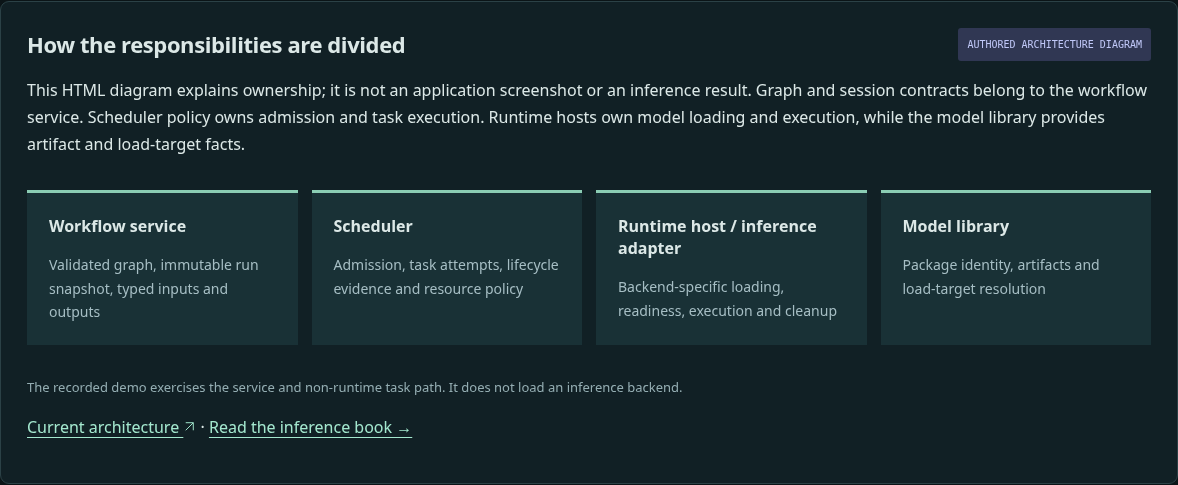
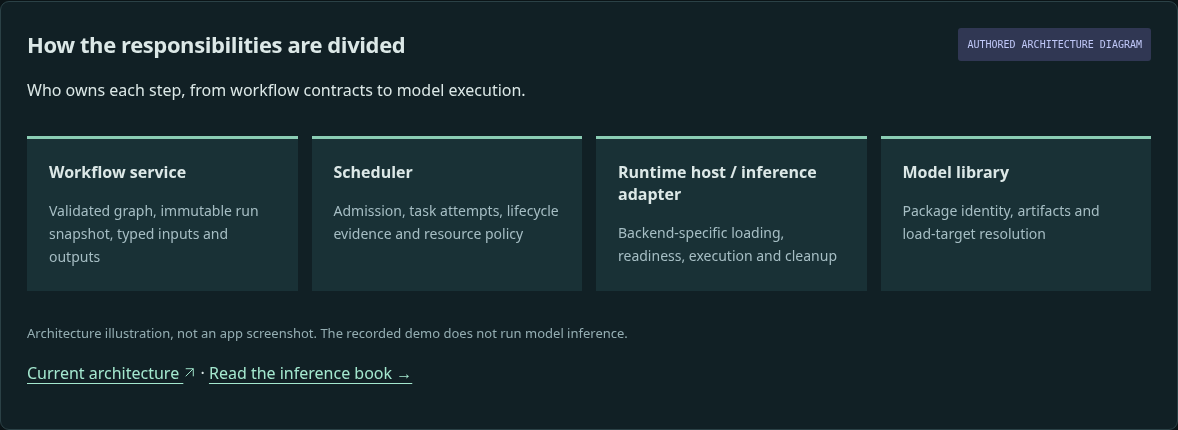
Keep perspective labels concise and constrain the mobile recording selector

diff --git a/docs/presentation/index.html b/docs/presentation/index.html
@@ -5,11 +5,11 @@
 <header><a class="brand" href="./">⌁ Pantograph</a><nav aria-label="Main"><a href="#gallery">App gallery</a><a href="#demonstration">Demonstration</a><a href="#research">Research</a><a href="https://github.com/MrScripty/Pantograph">Source <svg aria-hidden="true" width="13" height="13" viewBox="0 0 24 24" fill="none" stroke="currentColor" stroke-width="1.8"><path d="M5 19 19 5M5 5h14v14"/></svg></a></nav></header>
 <main>
 <section class="hero"><p class="eyebrow">LOCAL-FIRST · RUST-NATIVE · INSPECTABLE</p><h1>Make the workflow visible.<br><span>Make execution accountable.</span></h1><p class="lead">Pantograph connects a visual node editor with scheduler-owned execution and explicit inference boundaries. Explore one working deterministic workflow, then the research behind the larger system.</p><div class="actions"><a class="button" href="#demonstration">Explore the evidence ↓</a><a href="https://github.com/MrScripty/Pantograph/tree/7fc3584cca8bef647b60ebf303c4b5d6b37d98bd/examples/scheduler-demo">Run it locally <svg aria-hidden="true" width="13" height="13" viewBox="0 0 24 24" fill="none" stroke="currentColor" stroke-width="1.8"><path d="M5 19 19 5M5 5h14v14"/></svg></a></div><p class="scope">Captured 11 October 2026 · CPU-only JSON extraction · No model inference claimed</p></section>
-<section id="gallery"><div class="section-title"><span class="eyebrow">APPLICATION GALLERY</span><h2>Inspect the actual workbench.</h2><p>Genuine Chromium captures of existing Svelte components connected to a persistent Rust service over loopback HTTP. These are not native desktop windows. The workbench queries live diagnostics and reads actual retained artifact bytes; this static page preserves the recordings. <a href="images/scheduler-demo-success.json">Inspect the source recording</a>. <a href="https://github.com/MrScripty/Pantograph/pull/71">Review branch: PR #71</a>; main awaits review.</p></div><article><h3>Workflow-run I/O Inspector</h3><a href="images/workflow-run-inspector.png?v=843ad770e4fc"><img loading="lazy" class="screenshot" src="images/workflow-run-inspector.png?v=843ad770e4fc" alt="Workflow-run I/O Inspector: Real inspection component with a live run graph, node status and retained text read through the artifact API."></a><p class="caption">Real inspection component with a live run graph, node status and retained text read through the artifact API.</p></article><article><h3>Graph · earlier capture</h3><a href="images/node-editor.png?v=486639eb27b8"><img loading="lazy" class="screenshot" src="images/node-editor.png?v=486639eb27b8" alt="Workflow Graph: Actual Svelte Graph canvas connected to the loopback host, with backend-produced graph and definitions. Captured before saved-workflow submission was added."></a><p class="caption">Actual Svelte Graph canvas connected to the loopback host, with backend-produced graph and definitions. Captured before saved-workflow submission was added.</p></article><article><h3>Execution ledger / Diagnostics</h3><a href="images/execution-ledger.png?v=48d6a28565d3"><img loading="lazy" class="screenshot" src="images/execution-ledger.png?v=48d6a28565d3" alt="Execution ledger / Diagnostics: Real Diagnostics component querying the live native service, including completed non-runtime node statuses."></a><p class="caption">Real Diagnostics component querying the live native service, including completed non-runtime node statuses.</p></article><article><h3>Ledger timeline</h3><a href="images/execution-ledger-timeline.png?v=903f54c7e757"><img loading="lazy" class="screenshot" src="images/execution-ledger-timeline.png?v=903f54c7e757" alt="Actual Diagnostics scheduler timeline populated from the recorded native run"></a><p class="caption">The actual native task lifecycle timeline, scrolled into view. <a href="images/execution-node-status.png?v=b572844b37fe">Inspect completed node statuses and the three retained payloads</a>.</p></article><article><h3>Model Library</h3><a href="images/model-library.png?v=22cca29198cd"><img loading="lazy" class="screenshot" src="images/model-library.png?v=22cca29198cd" alt="Model Library: Actual Library component reading a real isolated empty Pumas catalog. Unsupported model-management actions are explained and disabled; no invented models or inference results."></a><p class="caption">Actual Library component reading a real isolated empty Pumas catalog. Unsupported model-management actions are explained and disabled; no invented models or inference results.</p></article><details class="view-coverage"><summary>Eight app views · capture coverage</summary><div class="coverage-grid"><a href="images/node-editor.png?v=486639eb27b8"><b>Graph</b><span>Earlier capture; submission added later</span></a><div><b>Scheduler</b><span>Functional read view; capture pending</span></div><a href="images/execution-ledger.png?v=48d6a28565d3"><b>Diagnostics</b><span>Live-service query capture</span></a><a href="images/workflow-run-inspector.png?v=843ad770e4fc"><b>I/O Inspector</b><span>Retained output capture</span></a><a href="images/model-library.png?v=22cca29198cd"><b>Library</b><span>Empty isolated catalog; limited actions</span></a><div><b>Network</b><span>Real host adapter added; capture pending</span></div><div><b>Settings</b><span>Service support not yet qualified</span></div><a href="images/node-editor-status.png?v=5fd14ba778da"><b>Node Editor / Node Lab</b><span>Authoring unavailable; distinct from Graph</span></a></div></details></section><section id="demonstration"><div class="section-title"><span class="eyebrow">01 / THE DEMONSTRATION</span><h2>One graph. Three perspectives.</h2><p class="caption">A captured Graph canvas, an interactive viewer of a saved run, and an authored architecture diagram.</p></div>
+<section id="gallery"><div class="section-title"><span class="eyebrow">APPLICATION GALLERY</span><h2>Inspect the actual workbench.</h2><p>Browser captures of real Svelte components querying a local Rust service and reading retained output. <a href="images/scheduler-demo-success.json">Inspect the source recording</a>. <a href="https://github.com/MrScripty/Pantograph/pull/71">Review branch: PR #71</a>; main awaits review.</p></div><article><h3>Workflow-run I/O Inspector</h3><a href="images/workflow-run-inspector.png?v=843ad770e4fc"><img loading="lazy" class="screenshot" src="images/workflow-run-inspector.png?v=843ad770e4fc" alt="Workflow-run I/O Inspector: Real inspection component with a live run graph, node status and retained text read through the artifact API."></a><p class="caption">Real inspection component with a live run graph, node status and retained text read through the artifact API.</p></article><article><h3>Graph · earlier capture</h3><a href="images/node-editor.png?v=486639eb27b8"><img loading="lazy" class="screenshot" src="images/node-editor.png?v=486639eb27b8" alt="Workflow Graph: Actual Svelte Graph canvas connected to the loopback host, with backend-produced graph and definitions. Captured before saved-workflow submission was added."></a><p class="caption">Actual Svelte Graph canvas connected to the loopback host, with backend-produced graph and definitions. Captured before saved-workflow submission was added.</p></article><article><h3>Execution ledger / Diagnostics</h3><a href="images/execution-ledger.png?v=48d6a28565d3"><img loading="lazy" class="screenshot" src="images/execution-ledger.png?v=48d6a28565d3" alt="Execution ledger / Diagnostics: Real Diagnostics component querying the live native service, including completed non-runtime node statuses."></a><p class="caption">Real Diagnostics component querying the live native service, including completed non-runtime node statuses.</p></article><article><h3>Ledger timeline</h3><a href="images/execution-ledger-timeline.png?v=903f54c7e757"><img loading="lazy" class="screenshot" src="images/execution-ledger-timeline.png?v=903f54c7e757" alt="Actual Diagnostics scheduler timeline populated from the recorded native run"></a><p class="caption">The actual native task lifecycle timeline, scrolled into view. <a href="images/execution-node-status.png?v=b572844b37fe">Inspect completed node statuses and the three retained payloads</a>.</p></article><article><h3>Model Library</h3><a href="images/model-library.png?v=22cca29198cd"><img loading="lazy" class="screenshot" src="images/model-library.png?v=22cca29198cd" alt="Model Library: Actual Library component reading a real isolated empty Pumas catalog. Unsupported model-management actions are explained and disabled; no invented models or inference results."></a><p class="caption">Actual Library component reading a real isolated empty Pumas catalog. Unsupported model-management actions are explained and disabled; no invented models or inference results.</p></article><details class="view-coverage"><summary>Eight app views · capture coverage</summary><div class="coverage-grid"><a href="images/node-editor.png?v=486639eb27b8"><b>Graph</b><span>Earlier capture; submission added later</span></a><div><b>Scheduler</b><span>Functional read view; capture pending</span></div><a href="images/execution-ledger.png?v=48d6a28565d3"><b>Diagnostics</b><span>Live-service query capture</span></a><a href="images/workflow-run-inspector.png?v=843ad770e4fc"><b>I/O Inspector</b><span>Retained output capture</span></a><a href="images/model-library.png?v=22cca29198cd"><b>Library</b><span>Empty isolated catalog; limited actions</span></a><div><b>Network</b><span>Real host adapter added; capture pending</span></div><div><b>Settings</b><span>Service support not yet qualified</span></div><a href="images/node-editor-status.png?v=5fd14ba778da"><b>Node Editor / Node Lab</b><span>Authoring unavailable; distinct from Graph</span></a></div></details></section><section id="demonstration"><div class="section-title"><span class="eyebrow">01 / THE DEMONSTRATION</span><h2>One graph. Three perspectives.</h2><p class="caption">A captured Graph canvas, an interactive viewer of a saved run, and an authored architecture diagram.</p></div>
 <div class="tabs" role="tablist" aria-label="Demo perspective"><button role="tab" aria-selected="true" aria-controls="editor" id="tab-editor" data-panel="editor">Graph screenshot</button><button role="tab" aria-selected="false" aria-controls="scheduler" id="tab-scheduler" data-panel="scheduler" tabindex="-1">Recorded run</button><button role="tab" aria-selected="false" aria-controls="inference" id="tab-inference" data-panel="inference" tabindex="-1">Architecture diagram</button></div>
-<article id="editor" role="tabpanel" aria-labelledby="tab-editor"><div class="panel-heading"><h3>The real Svelte Graph canvas</h3><span class="badge">STATIC APP SCREENSHOT</span></div><p>Selection Input → JSON Filter → Text Output. Backend-produced node definitions and the demo graph are loaded into the application's existing stores. Ports and edges are rendered by the actual editor.</p><a href="images/node-editor.png?v=486639eb27b8"><img class="screenshot" src="images/node-editor.png?v=486639eb27b8" alt="Pantograph's actual Svelte graph editor displaying the three-node JSON-extraction graph. Submit is unavailable and no execution result is shown."></a><p class="caption">Genuine browser capture, with focused fixes for JSON Filter's renderer registration and aligned-wire visibility. The application is connected to the loopback demo host. This earlier capture predates <a href="https://github.com/MrScripty/Pantograph/commit/679622e9d8b17e87a278b81b60194d31ee4f4981">saved-workflow submission and Network metrics</a>. The newer source still awaits reviewed screenshots. The separate Node Editor / Node Lab authoring feature remains unavailable in current source.</p></article>
-<article id="scheduler" role="tabpanel" aria-labelledby="tab-scheduler" hidden><div class="panel-heading"><h3>A recorded run, open to inspection</h3><span class="badge">SCREENSHOT + INTERACTIVE RECORDING</span></div><p>The Rust workflow service validates and snapshots the graph, admits a session run, materializes the JSON input, executes JSON Filter and Text Output, records diagnostics in SQLite, and retains the small scalar output artifacts. No host-returned fixture output is used.</p><a href="images/scheduler-demo-success.png?v=f86c2e38067b"><img class="screenshot" src="images/scheduler-demo-success.png?v=f86c2e38067b" alt="The local browser demo after native Rust execution, showing input JSON, extracted text, a run ID, and scheduler events."></a><div class="trace-controls"><label for="recording">Choose a saved recording</label><select id="recording"><option value="success">Successful extraction</option><option value="rejection">Expected rejection: missing JSON path</option></select><a id="download" href="images/scheduler-demo-success.json" download>Download raw JSON ↓</a></div><p id="trace-summary" role="status">Loading recorded evidence…</p><div class="trace-grid"><div id="event-list" aria-label="Recorded scheduler events"></div><pre id="event-detail" tabindex="0">Select an event to inspect its original payload.</pre></div><p class="caption">The screenshot above is the runnable demo host. The controls here inspect its saved execution JSON; this page does not run Rust or inference. Local elapsed time is not a benchmark. The expected-rejection recording deliberately omits the input path, producing a real invalid downstream task. No GPU scheduling, cache reuse, or model performance was tested here.</p></article>
-<article id="inference" role="tabpanel" aria-labelledby="tab-inference" hidden><div class="panel-heading"><h3>How the responsibilities are divided</h3><span class="badge research">AUTHORED ARCHITECTURE DIAGRAM</span></div><p>This HTML diagram explains ownership; it is not an application screenshot or an inference result. Graph and session contracts belong to the workflow service. Scheduler policy owns admission and task execution. Runtime hosts own model loading and execution, while the model library provides artifact and load-target facts.</p><ol class="boundaries"><li><b>Workflow service</b><span>Validated graph, immutable run snapshot, typed inputs and outputs</span></li><li><b>Scheduler</b><span>Admission, task attempts, lifecycle evidence and resource policy</span></li><li><b>Runtime host / inference adapter</b><span>Backend-specific loading, readiness, execution and cleanup</span></li><li><b>Model library</b><span>Package identity, artifacts and load-target resolution</span></li></ol><p class="caption">The recorded demo exercises the service and non-runtime task path. It does not load an inference backend.</p><p><a href="https://github.com/MrScripty/Pantograph/blob/main/ARCHITECTURE.md">Current architecture <svg aria-hidden="true" width="13" height="13" viewBox="0 0 24 24" fill="none" stroke="currentColor" stroke-width="1.8"><path d="M5 19 19 5M5 5h14v14"/></svg></a> · <a href="research/inference-backends/manuscript/designing-compatible-inference-backends.html">Read the inference book →</a></p></article>
+<article id="editor" role="tabpanel" aria-labelledby="tab-editor"><div class="panel-heading"><h3>The real Svelte Graph canvas</h3><span class="badge">STATIC APP SCREENSHOT</span></div><p>Selection Input → JSON Filter → Text Output, rendered by the real Svelte Graph canvas.</p><a href="images/node-editor.png?v=486639eb27b8"><img class="screenshot" src="images/node-editor.png?v=486639eb27b8" alt="Pantograph's actual Svelte graph editor displaying the three-node JSON-extraction graph. Submit is unavailable and no execution result is shown."></a><p class="caption">Earlier capture · 7fc3584 · Before <a href="https://github.com/MrScripty/Pantograph/commit/679622e9d8b17e87a278b81b60194d31ee4f4981">saved-workflow submission</a>. New screenshots pending.</p></article>
+<article id="scheduler" role="tabpanel" aria-labelledby="tab-scheduler" hidden><div class="panel-heading"><h3>A recorded run, open to inspection</h3><span class="badge">SCREENSHOT + INTERACTIVE RECORDING</span></div><p>The native Rust service validates the graph, executes the deterministic nodes, and retains output with its scheduler event history.</p><a href="images/scheduler-demo-success.png?v=f86c2e38067b"><img class="screenshot" src="images/scheduler-demo-success.png?v=f86c2e38067b" alt="The local browser demo after native Rust execution, showing input JSON, extracted text, a run ID, and scheduler events."></a><div class="trace-controls"><label for="recording">Choose a saved recording</label><select id="recording"><option value="success">Successful extraction</option><option value="rejection">Expected rejection: missing JSON path</option></select><a id="download" href="images/scheduler-demo-success.json" download>Download raw JSON ↓</a></div><p id="trace-summary" role="status">Loading recorded evidence…</p><div class="trace-grid"><div id="event-list" aria-label="Recorded scheduler events"></div><pre id="event-detail" tabindex="0">Select an event to inspect its original payload.</pre></div><p class="caption">Demo-host screenshot; controls inspect saved JSON. No website execution or inference. Rejection is an intentional missing-path test.</p></article>
+<article id="inference" role="tabpanel" aria-labelledby="tab-inference" hidden><div class="panel-heading"><h3>How the responsibilities are divided</h3><span class="badge research">AUTHORED ARCHITECTURE DIAGRAM</span></div><p>Who owns each step, from workflow contracts to model execution.</p><ol class="boundaries"><li><b>Workflow service</b><span>Validated graph, immutable run snapshot, typed inputs and outputs</span></li><li><b>Scheduler</b><span>Admission, task attempts, lifecycle evidence and resource policy</span></li><li><b>Runtime host / inference adapter</b><span>Backend-specific loading, readiness, execution and cleanup</span></li><li><b>Model library</b><span>Package identity, artifacts and load-target resolution</span></li></ol><p class="caption">Architecture illustration, not an app screenshot. The recorded demo does not run model inference.</p><p><a href="https://github.com/MrScripty/Pantograph/blob/main/ARCHITECTURE.md">Current architecture <svg aria-hidden="true" width="13" height="13" viewBox="0 0 24 24" fill="none" stroke="currentColor" stroke-width="1.8"><path d="M5 19 19 5M5 5h14v14"/></svg></a> · <a href="research/inference-backends/manuscript/designing-compatible-inference-backends.html">Read the inference book →</a></p></article>
 </section>
 <section id="research"><div class="section-title"><span class="eyebrow">02 / RESEARCH & DESIGN</span><h2>The reasoning behind the system.</h2><p>Original manuscripts and an evaluation report. Research editions are pinned to 2 October 2026 and source revision <code>4938e405</code>; they are distinct from this later execution evidence.</p></div><div class="papers">
 <a class="paper" href="research/node-execution-and-dynamic-extensions.html"><span class="eyebrow">NODES · PAPER</span><h3>Node Execution and Dynamic Extensions</h3><p>Invocation boundaries, lifecycle, extension admission, and what it takes to qualify a node.</p><span>Source audit + proposed contracts →</span></a>

diff --git a/docs/presentation/style.css b/docs/presentation/style.css
@@ -2,3 +2,5 @@
 
 /* Distinguish captured UI, recorded evidence, and authored architecture. */
 .view-coverage{margin:24px 0 8px;border:1px solid #344d50;border-radius:6px;padding:17px 20px;color:#a7bfc3}.view-coverage summary{cursor:pointer;font-size:13px}.coverage-grid{display:grid;grid-template-columns:repeat(4,minmax(0,1fr));gap:12px;margin-top:18px}.coverage-grid>a,.coverage-grid>div{background:#15292d;padding:15px;border:1px solid #31494d;border-radius:4px;text-decoration:none}.coverage-grid b{display:block;color:#c9e6dc;font-size:13px;margin-bottom:7px}.coverage-grid span{display:block;font-size:11px;line-height:1.6;color:#a0b8bf}.panel-heading .badge{white-space:normal;line-height:1.5}.tabs button{line-height:1.5}@media(max-width:800px){.coverage-grid{grid-template-columns:repeat(2,minmax(0,1fr))}}@media(max-width:400px){.coverage-grid{grid-template-columns:1fr}.view-coverage{padding:16px}}
+
+.trace-controls select{max-width:100%;min-width:0}

diff --git a/docs/presentation/README.md b/docs/presentation/README.md
@@ -105,6 +105,6 @@ workbench views have concise coverage labels. New app source `679622e9` adds
 saved-workflow submission and a Network metrics adapter, but no new captures have
 been delivered; Settings and Node Editor authoring remain unqualified.
 
-The revised source passed 1,262 combined static and browser checks, and all 22
+The revised source passed 1,266 combined static and browser checks, and all 22
 GitHub destinations on the two landing pages returned HTTP 200. The original
 manuscript hashes, bibliography anchors, mobile wrapping and SVG icons are intact.
